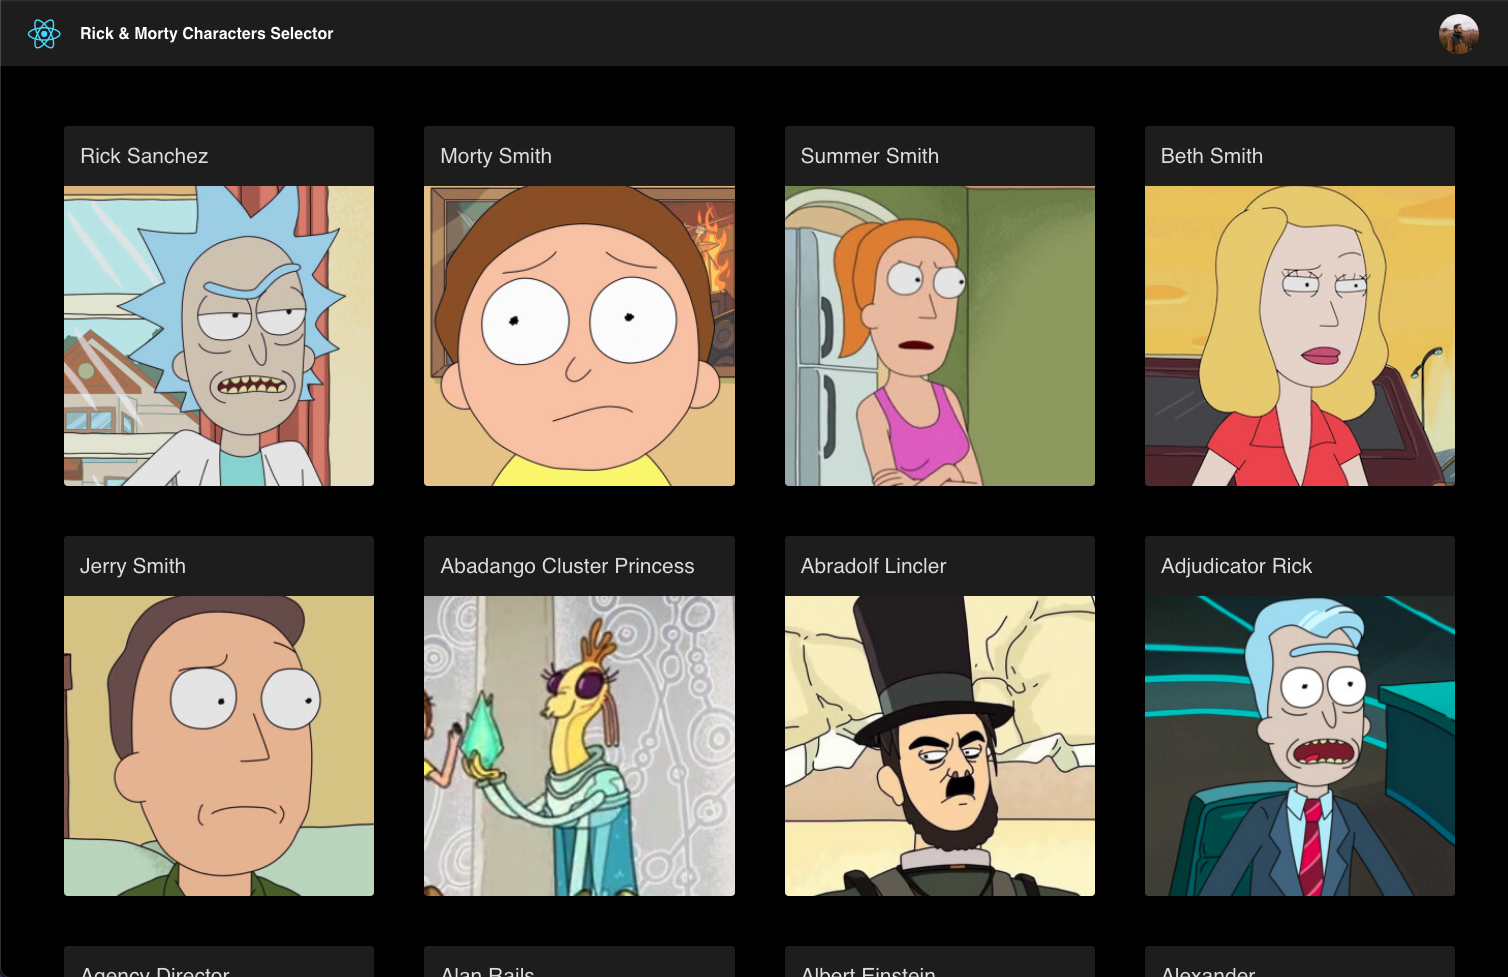
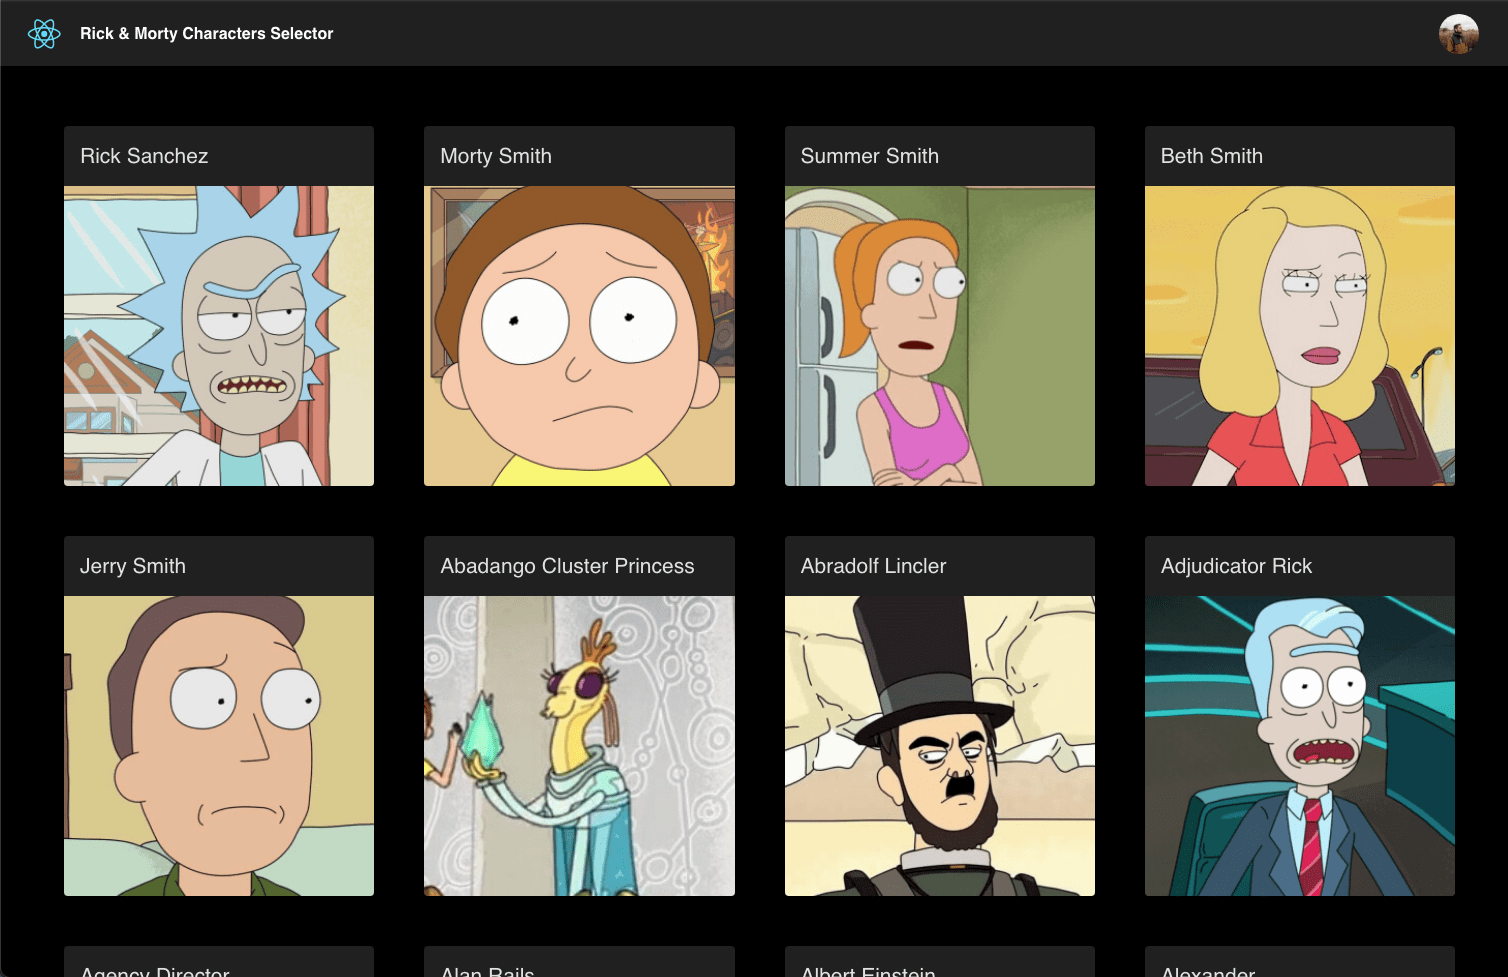
chore: update the README.md and compress the demo images

diff --git a/README.md b/README.md
@@ -4,8 +4,8 @@ This progressive web app (PWA) is a Rick and Morty character selector made with 
 [GraphQL](https://graphql.org/) and use as a backend the [Rick and Morty api](https://rickandmortyapi.com/).
 With this application you will be able to choose one of the more than 600 characters available and see his detail information.
 
-![Character List](demo/character-list)
-![Character Detail](demo/character-detail)
+![Character List](demo/character-list.png)
+![Character Detail](demo/character-detail.png)
 
 This project was the core project that I use to made a serie of three internal workshops for the [uxland](https://www.uxland.es/) members during the last 2 month of 2020.
 In these workshops I made a talk about [Pact.js](https://github.com/pact-foundation/pact-js), another about [GraphQL](https://graphql.org/), and about [React](https://reactjs.org/).
